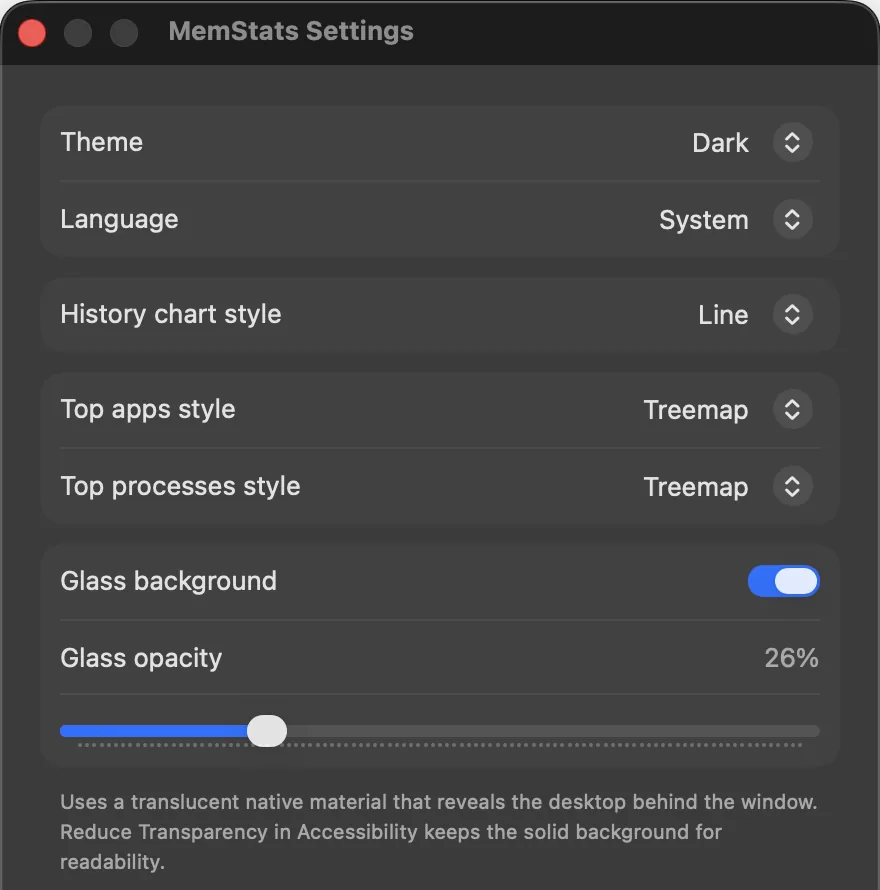
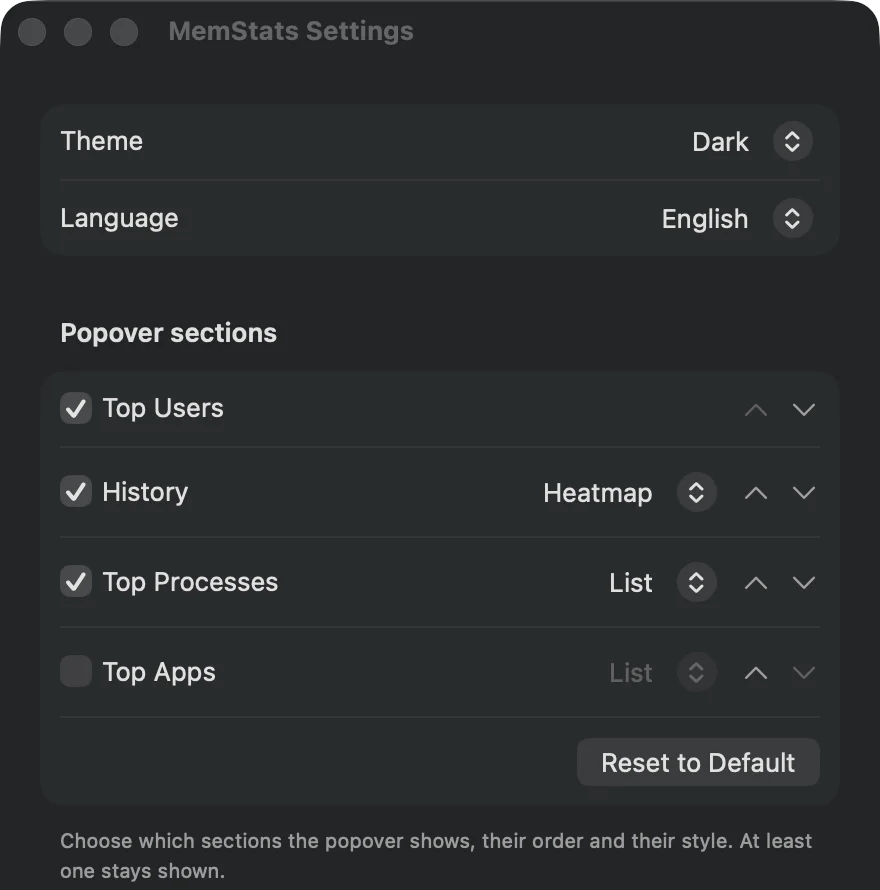
docs(site): update for v1.2.0
Bump the version to 1.2.0, mention hiding and reordering popover
sections, and replace the Settings screenshot with the new layout.

diff --git a/index.html b/index.html
@@ -44,7 +44,7 @@
       "url": "https://memstats.chungxon.dev/",
       "applicationCategory": "UtilitiesApplication",
       "operatingSystem": "macOS 14 Sonoma or later",
-      "softwareVersion": "1.1.0",
+      "softwareVersion": "1.2.0",
       "downloadUrl": "https://github.com/sown-oss/MemStats/releases/latest",
       "image": "https://memstats.chungxon.dev/assets/og.png",
       "screenshot": "https://memstats.chungxon.dev/assets/demo-poster.webp",
@@ -322,7 +322,7 @@ footer a.author { text-decoration: underline; text-underline-offset: 3px; text-d
         <a class="btn primary" href="https://github.com/sown-oss/MemStats/releases/latest">Download for macOS</a>
         <a class="btn" href="https://github.com/sown-oss/MemStats">View on GitHub</a>
       </div>
-      <p class="note">Version 1.1.0. Requires macOS 14 Sonoma or later. Apple Silicon and Intel.</p>
+      <p class="note">Version 1.2.0. Requires macOS 14 Sonoma or later. Apple Silicon and Intel.</p>
     </div>
     <div class="shot">
       <video id="demo" autoplay muted loop playsinline width="480" height="692" poster="assets/demo-poster.webp" aria-label="MemStats popover showing a donut of memory by user, a history chart, top apps and top processes">
@@ -355,7 +355,7 @@ footer a.author { text-decoration: underline; text-underline-offset: 3px; text-d
 
   <section id="how">
     <h2>One popover, four answers</h2>
-    <p class="sub">Click the menu bar item. Everything fits in a single 380 by 540 point window.</p>
+    <p class="sub">Click the menu bar item. Everything fits in a single 380 by 540 point window. Hide or reorder the sections in Settings.</p>
     <div class="features">
       <div class="card"><h3>Top Users</h3><p>Donut of used RAM by user, with free memory and an "Unattributed Used" slice so the numbers add up to the system total.</p>
         <div class="shots">
@@ -381,9 +381,9 @@ footer a.author { text-decoration: underline; text-underline-offset: 3px; text-d
           <figure><img src="assets/processes-treemap.webp" width="732" height="540" loading="lazy" decoding="async" alt="Top Processes treemap with PID, memory and change since the last sample"><figcaption>Treemap</figcaption></figure>
         </div>
       </div>
-      <div class="card"><h3>Settings</h3><p>Theme, language, chart styles, glass background and opacity, update intervals and how many rows to show. Open it from the gear in the popover.</p>
+      <div class="card"><h3>Settings</h3><p>Theme, language, which popover sections to show with their order and style, glass background and opacity, update intervals and how many rows to show. Open it from the gear in the popover.</p>
         <div class="shots wide">
-          <figure><img src="assets/settings.webp" width="880" height="890" loading="lazy" decoding="async" alt="MemStats Settings window with theme, language, history chart style, top apps style, top processes style and glass background"><figcaption>Settings</figcaption></figure>
+          <figure><img src="assets/settings.webp" width="880" height="890" loading="lazy" decoding="async" alt="MemStats Settings window with theme, language and popover sections, each with a checkbox, move up and down buttons and, where available, a style picker"><figcaption>Settings</figcaption></figure>
         </div>
       </div>
     </div>
